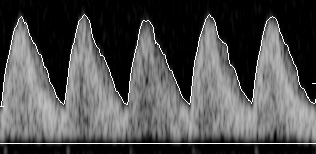
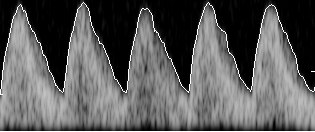
A, B, C, D updated

diff --git a/Image2Plot.m b/Image2Plot.m
@@ -118,30 +118,35 @@ plot(x_new,y_new,x_new(TF_lastminima),y_new(TF_lastminima),'r*');
 plot(x_new,y_new,x_new(TF_mostmaxima),y_new(TF_mostmaxima),'b*');
 % For loop through an array of mins and maxs
 
-%% Finding important points (A, B, C, D) 
+%% Finding important points (A, B, C, D) - Currently for only first waveform
 %Finding A: Peak Systolic Flow
-A_y = max(y_new);
-A_x = x_new(A_y == y_new);
-A = ['Peak Systolic Flow X', 'Y'; A_x, A_y];
+A_y = max(maxYVals);
+A_x = maxXVals(A_y == maxYVals);
+%A = ['Peak Systolic Flow X', 'Y'; A_x, A_y;];
 
 %Finding C: Nadir of Notch
-C_y = min(y_new);
-C_x = x_new(C_y == y_new);
-C = ['Nadir of Notch X', 'Y'; C_x, C_y];
+C_y = min(minYVals);
+C_x = minXVals(C_y == minYVals);
+%C = ['Nadir of Notch X', 'Y'; C_x, C_y;];
 
 %Finding D: Peak of Notch 
+[D_value,D_index]=maxk(maxYVals, 2);
+D_y = D_value([1,1]);
+D_x = maxXVals(D_index);
 
 %Finding B: End diastolic flow
-%B_x = 
-%B_ y = 
+B_x = minXVals(end);
+B_y = minYVals(end);
+%B = ['End of diastolic flow X', 'Y'; B_x, B_y;];
 
 %Finding M: Mean of flow
 
+
 %Finding Pulsatility Index
-pulsality_index = (A-B)/M;
+%pulsality_index = (A-B)/M;
 
 %Finding Notch Index
-notch_index = (D-C)/M;
+%notch_index = (D-C)/M;
 
 %% Writing to excel sheet
 filename = "US Data.xlsx";
@@ -151,7 +156,9 @@ minimumVals = ["Min X-Values", "Min Y-Values";
                 minXVals', minYVals';];
 writematrix(maximumVals,filename,'Sheet',1,'Range','A1');
 writematrix(minimumVals, filename, 'Sheet', 1, 'Range', 'D1');
-writematrix(A', filename, 'Sheet', 1, 'Range', 'G1');
+%writematrix(A', filename, 'Sheet', 1, 'Range', 'G1');
+%writematrix(B', filename, 'Sheet', 1, 'Range', 'G5');
+%writematrix(C', filename, 'Sheet', 1, 'Range', 'G9');
 
 % %% Compare Plot to Image
 % figure
